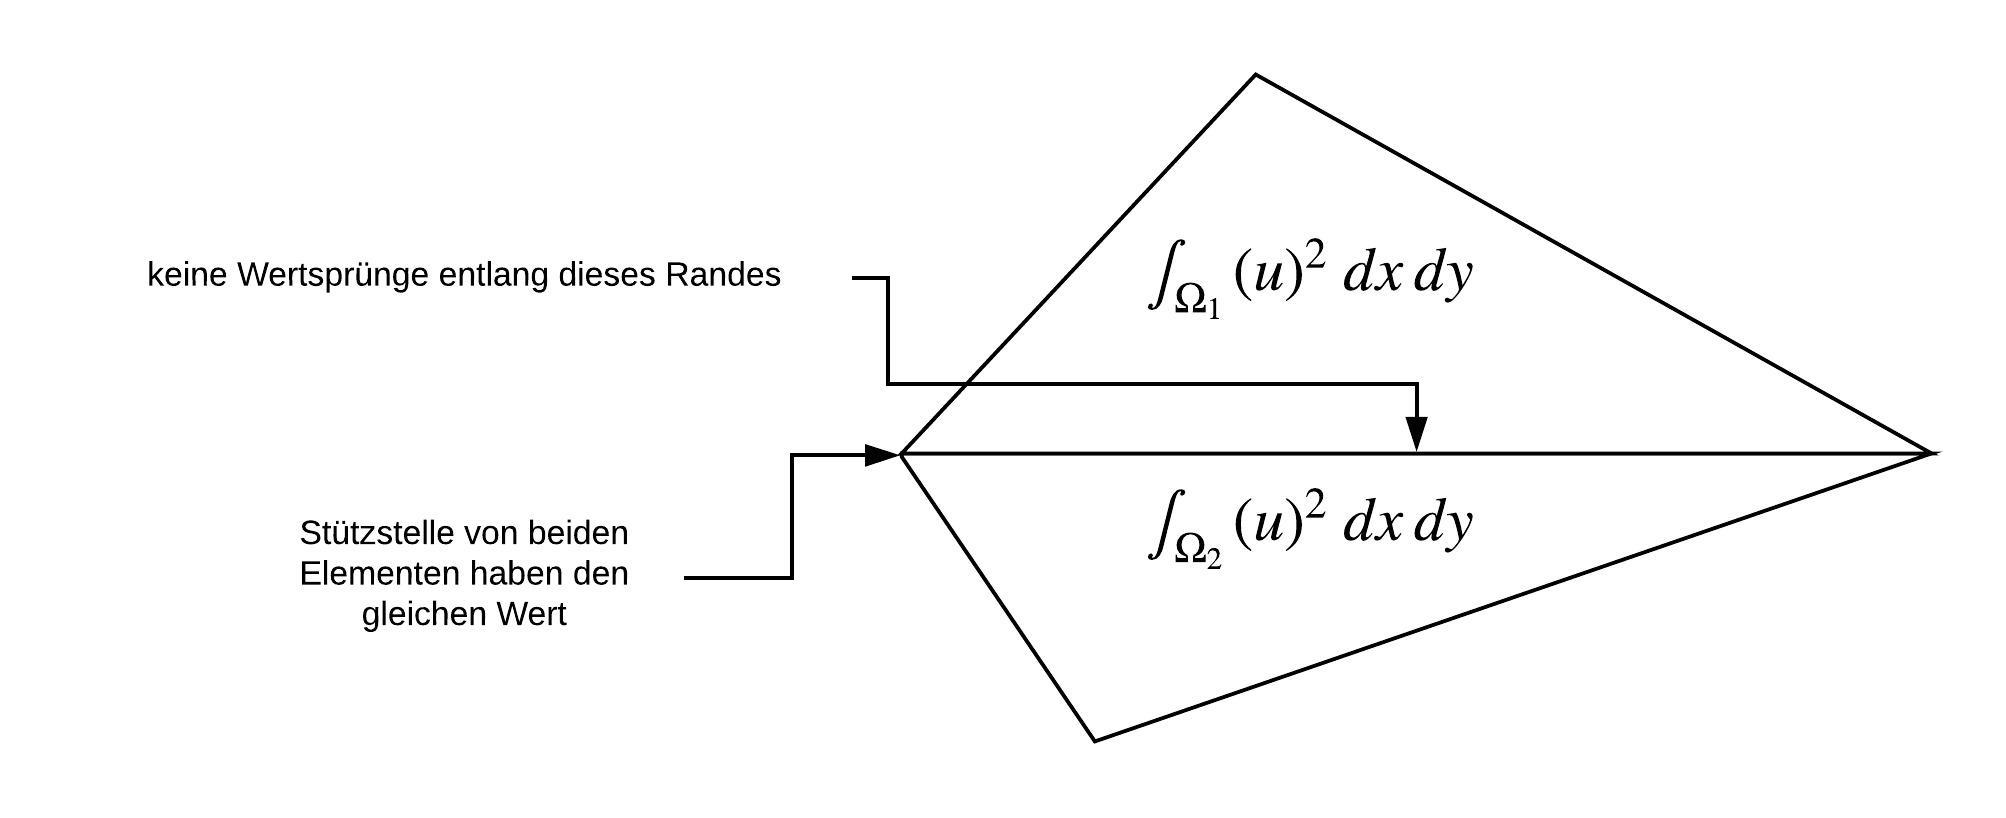
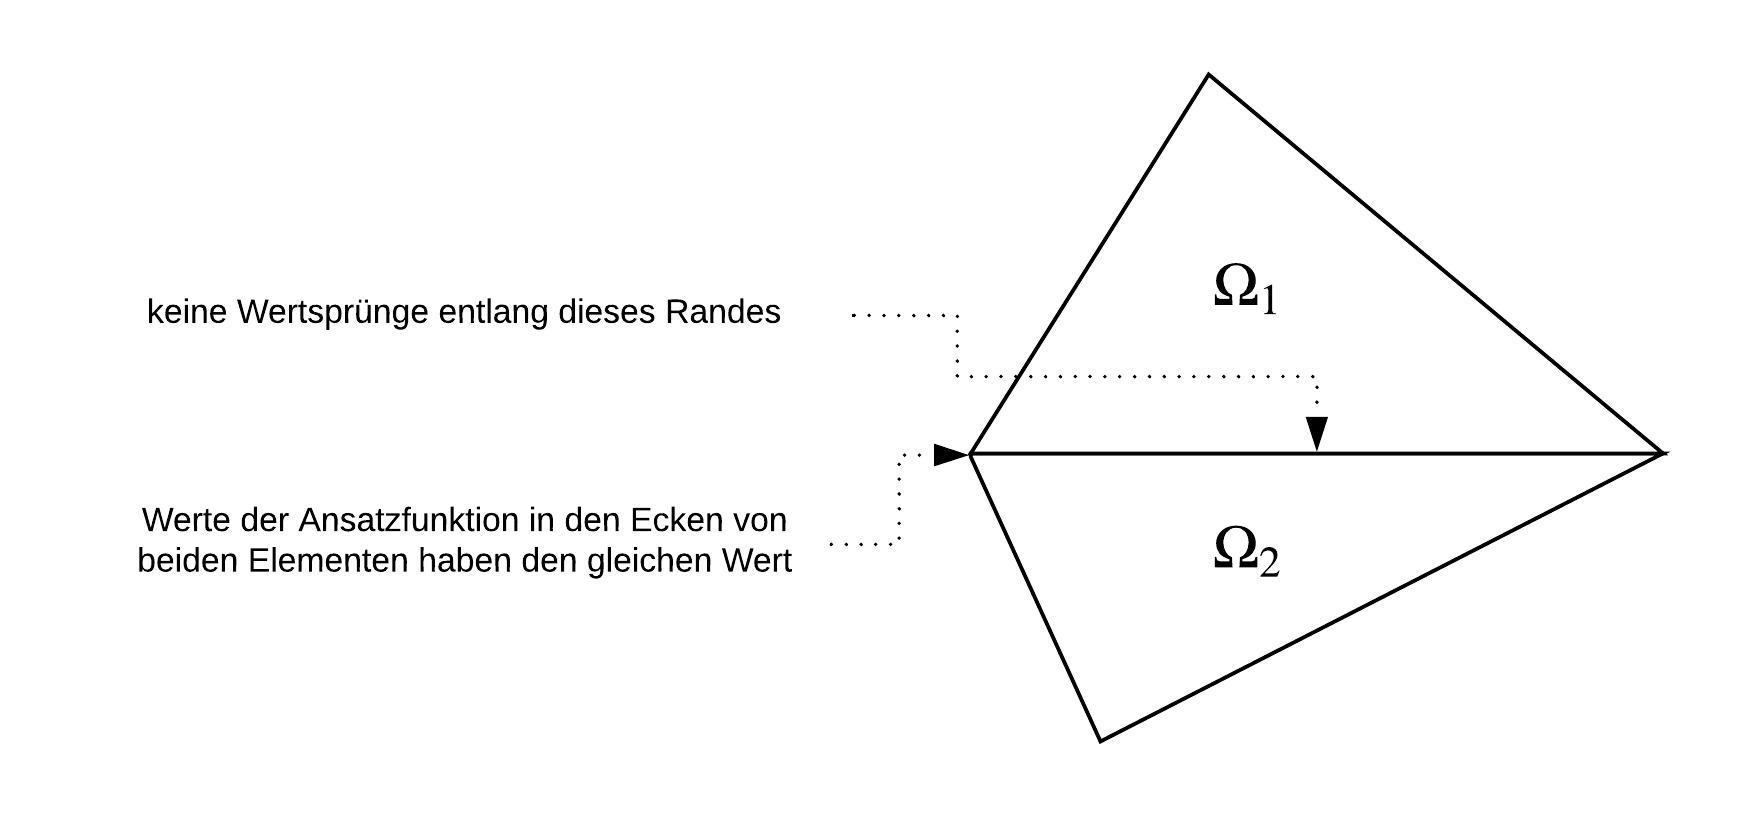
Update Text Bilder

diff --git a/buch/papers/fem/problemstellung.tex b/buch/papers/fem/problemstellung.tex
@@ -6,33 +6,60 @@
 \section{Problemstellung
 \label{fem:section:problemstellung}}
 \rhead{Problemstellung}
+Die Partielle Differentialgleichung (DGL) in der Ebene hat die Form 
+\begin{equation}
+	\Delta x = \lambda x
+	\label{fem:equationPDE}
+\end{equation} 
 
 \subsection{Was sind Ansatzfunktionen?}
-Um eine gesuchte Funktion als Lösung für die Partielle Differentialgleichung (DGL) Problem in der Ebene zu finden, wird diese mit einfacheren Funktionen approximiert. Diese einfacheren Approximations- Funktionen werden in diesem Kapitel als Ansatzfunktion $u(x)$ bezeichnet. 
+Um eine gesuchte Funktion als Lösung für die Partielle DGL Problem in der Ebene zu finden, wird diese mit einfacheren Funktionen approximiert. Diese einfacheren Approximations- Funktionen werden in diesem Kapitel als Ansatzfunktion $u(x)$ bezeichnet. Die einzelne ANsatzfunktion ist jedoch keine globale Lösung.
 
 Als einfachere Funktionen bieten sich Polynome mit niedrigem Grad an. Diese sind einfach integrier- und differenzierbar. Der Polynomgrad 1 ist einfach anzuwenden bzw. zu berechnen. Polynomgrade 3 und 4 beispielsweis bieten dafür eine bessere Approximation an. Wie im Kapitel 7 ist auch hier das Ziel Gleichungen mit wenigen Koeffizienten zu erstellen. Ist es nun möglich ebenfalls in der Ebene Ansatzfunktionen zu finden mit wenigen Koeffizienten, obwohl über ein Gebiet integriet wird? Ja. Allerdings gibt es besondere Herausforderungen zu beachten, die in den nächsten Zeilen genauer beschrieben werden.
 %Die Ansatzfunktion ist frei wählbar und gibt auch den Freiheitsgrad vor. Je höher die Ordnung der Ansatzfunktion desto besser soll die Approximation werden. So die Hoffnung. Allerdings hat dies auch Konsequenzen, die im Verlauf dieses Kapitels beschrieben werden. 
 
 
 \subsection{Herausforderung FEM in der Ebene}
-Wie auch in der Dimension 1 wird das gesamte Gebiet $\Omega$ bzw. Ebene in Teilgebiete unterteilt. Auf diese Teilgebiete werden dann die einfachen Ansatzfunktionen angewendet und dann aufsummiert nach \eqref{fem:equationSummGebiete}.
+Wie auch in der Dimension 1 wird das gesamte Gebiet $\Omega$ bzw. Ebene in Teilgebiete $\Omega_i$ unterteilt. Die Teilgebiete sind einfache geometrische Formen wie z.B. in Abbildung \ref{fig:Figuren}. Unterschiedliche geometrische Formen approximieren unterschiedlich gut die gewünschte Fläche. Als Lösung dienen äquivalente Minimalprobleme sprich anstatt Ableitungen werden Integrale verwendet gemäss Kapitel 7.
+\begin{figure}[h!]
+	\centering
+	\includegraphics[scale=0.6]{papers/fem/Images/Figuren.jpeg}
+	\caption{Approximationsmöglichkeiten eines Qudratischen Gebietes}
+	\label{fig:Figuren}
+\end{figure}
+Damit dies funktioniert müss den die Teilgebiete einfach sein. Auf diese Teilgebiete werden dann die einfachen Ansatzfunktionen angewendet und dann aufsummiert nach \eqref{fem:equationSummGebiete}.
+
 \begin{equation}
 \int_{\Omega} (u)^2 \, dx \, dy = \sum \limits_{i=1}^n \int_{\Omega_i} (u)^2 \, dx \, dy 
 \label{fem:equationSummGebiete}
 \end{equation}
-Sollte die Frage aufteuchen warum ein Integral mit quadratischen Ausdrücken verwendet wird, so wird auf das Kapitel 7.4.1 verwiesen. Eine Approximation eines gebietes kann Beispielsweise mit Dreiecken, Rechtecken oder Parallelogrammen vorgenommen werden. Aus dieser Approximation resultieren zwei wesentliche Herausforderungen die da wären:
-\begin{itemize}
-	\item 1. stetig differenzierbar in den Stützstellen (Steigung) wie z.B: im Dreieck in den Ecken.
-	\item 2. stetig differenzierbar an den Übergängen entlang den Rändern eines Elements zum anliegenden Rand eines benachbarten Elements. (Krümmung)
-\end{itemize}
+Sollte die Frage auftauchen warum ein Integral mit quadratischen Ausdrücken verwendet wird, so wird auf das Kapitel 7.4.1 verwiesen. Eine Approximation eines gebietes kann Beispielsweise mit Dreiecken, Rechtecken oder Parallelogrammen vorgenommen werden. Aus dieser Approximation resultieren zwei wesentliche Herausforderungen:
+\begin{enumerate}
+	\item stetig differenzierbar in den Stützstellen (Steigung) wie z.B: im Dreieck in den Ecken.
+	\item stetig differenzierbar an den Übergängen entlang den Rändern eines Elements zum anliegenden Rand eines benachbarten Elements. (Krümmung)
+\end{enumerate}
+Um diese beiden Herausforderungen etwas besser verständlich zu machen wurde  eine Funktion- Approximation dargestellt  $u(x,y) = 1-x^2-y^2$, welche eine Lösung der PDE $\Delta u = -4$ ist mit Randbedingungen $u=0$ auf dem Einheitskreis (violett).
+\begin{figure}[h]
+	\centering
+	\includegraphics[scale=0.8]{papers/fem/Images/ansatz.jpg}
+	\caption{Approximation mit Dreiecken auf einem quadratischen Gitter }
+	\label{fig:Ansatz}
+\end{figure}
+Wie in der Abbildung \ref{fig:Ansatz} zu erkennen ist, passt die Approximation mit Dreiecken auf einem quadratischen Gitter nicht gut, da sich die Randbedingungen nicht ausnutzen lassen. Es benötigt also eine Unterteilung der Kreisscheibe die bis an den Rand kommt. Eine bessere Approximation ist in \ref{fig:besser Approx} zu sehen, die eine bessere Triangulation zeigt.
 \begin{figure}[h!]
+	\centering
+	\includegraphics[scale=0.8]{papers/fem/Images/polar.jpg}
+	\caption{bessere Triangulation}
+	\label{fig:besser Approx}
+\end{figure}
+\begin{figure}[h]
 	\centering
 	\includegraphics[scale=0.8]{papers/fem/Images/Rand.jpeg}
 	\caption{differenzierbar entlang eines Randes}
 	\label{fig:Randbedingung}
 \end{figure}
-Aus der Abbildung \ref{fig:Randbedingung} lässt sich erkennen, dass die Ansatzfunktion für jedes Element (hier Dreieck) unterschiedlich ist. Auch müssen die Ansatzfunktion flexibel auf die grösse des Flächenelements sein.
-Ein weiterer Unteschiedlich zeigt sich im Vergleich der Differential Gleichung mit 1 Dimension und 2 Dimensionen. Die DGL wird folgender massen geändert 
+Aus der Abbildung \ref{fig:besser Approx} lässt sich erkennen, dass die Ansatzfunktion für jedes Element (Dreieck) unterschiedlich ist. Auch müssen die Ansatzfunktion flexibel auf die grösse des Flächenelements anwendbar sein.
+Unteschiedlich zeigt sich im Vergleich der Differential Gleichung mit 1 Dimension und 2 Dimensionen. Die DGL wird folgender massen geändert 
 \begin{equation}
 	u'' = \lambda u \rightarrow \Delta u = \lambda u 
 	\label{fem:DGL2D}
@@ -83,18 +110,13 @@ Daraus lässt sich erkennen, dass sich die Vorgehensweise angepasst werden muss,
 %\iint_{\!\!\!\!\!\!\!\Omega} \limits u  \,dx dy
 %\label{fem:equation3}
 %\end{equation}
-Aus den Integralen der Teilgebiete muss dann die Lösung gefunden werden um die Koeffizienten der folgenden Gleichung zu finden.
-
-\begin{equation}
-\int g(x) \space dx = f_i \int h_0 \space dx+ f_{i+1}\int h_1 \space dx + s_i\int h_0^1 dx + s_{i+1}\int h_1^1 dx
-\label{fem:equation5}
-\end{equation}
-Da es verschiedene Dreieck- Arten gibt sowie auch verschiedene Parallelogramme, wird in \ref{fem:section:loesung} auch eine Lösung aufgezeigt wie mit Hilfe einer Transformation das Dreieck Flächenelements in ein weniger aufwändigere berechenbare Flächenelement überführt werden kann.
+Aus den Integralen der Teilgebiete muss dann die Lösung gefunden werden, um die Koeffizienten in den Ecken zu bestimmen.
+Da es verschiedene Dreieck- Arten gibt sowie auch verschiedene Parallelogramme, wird in Abschnitt \ref{fem:section:loesung} auch eine Lösung aufgezeigt wie mit Hilfe einer Transformation das Dreieck Flächenelements in ein weniger aufwändigere berechenbare Flächenelement überführt werden kann.
 Nochmals kurz zusammengefasst was bis hier hin aufgezeigt wurde.
 \begin{itemize}
 	\item Ebene wird in Teilgebiete unterteilt
 	\item Teilgebiete können Dreiecke, Rechtecke oder Parallelogramme sein
-	\item Ansatzfunktion soll ein Polynom nierigen gerades sein
+	\item Ansatzfunktion soll ein Polynom nierigen Gerades sein
 	\item auf jedes Teilgebiet wird eine Ansatzfunktion angewendet
 \end{itemize} 
 Was bis jetzt noch nicht klar ist, wie die Ansafunktion sich zusammenstellt. Dies wird under anderem im folgenden Kapitel beschrieben.

diff --git a/buch/papers/fem/loesung.tex b/buch/papers/fem/loesung.tex
@@ -6,8 +6,8 @@
 \section{Lösung
 \label{fem:section:loesung}}
 \rhead{Lösung}
-Wie im vorherigen Kapitel erwähnt sind Herausforderungen bzw. Ansprüche an die Ansatzfunktionen zu beachten. Nun stellt sich die Frage, wie die Ansatzfunktion gewählt werden müssen, so das entlang eines Randes nur "Knicke" entstehen und keine Sprünge. Und wie ist gewährleistet das in der gleichen Stützstelle alle Elemente den gleichen Wert haben?  Als Lösungs für das Dreieck bietet sich der lineare Term $u(x) = c_1 + c_2x + c_3y$ an. Diese Zusammensetzung ergibt sich, da der lineare Ansatz durch die Funktionswerte in den Ecken des Dreiecks bestimmt wird. In anderen Worten ausgedrückt sind die Funktionswerte in den Ecken des Teilgebiets, hier im Dreieck, die Unbekannten, die bestimmt werden müssen.
-(siehe Bild \ref{fem:Approx}).\\
+Wie im vorherigen Kapitel erwähnt sind Herausforderungen bzw. Ansprüche an die Ansatzfunktionen zu beachten. Nun stellt sich die Frage, wie die Ansatzfunktion gewählt werden müssen, so das entlang eines Randes nur \frqq Knicke \flqq entstehen und keine Sprünge. Und wie ist gewährleistet das in der gleichen Stützstelle alle Elemente den gleichen Wert haben?  Als Lösungs bietet sich ein lineare Funktion an. Für das Dreieck  ist es der Term $u(x) = c_1 + c_2x + c_3y$ an. Diese Zusammensetzung ergibt sich, da der lineare Ansatz durch die Funktionswerte in den Ecken des Dreiecks bestimmt wird. In anderen Worten ausgedrückt sind die Funktionswerte in den Ecken des Teilgebiets, hier im Dreieck, die Unbekannten, die bestimmt werden müssen. Wie diese Koeffizienten in einer Matrix bestimmt werden ist in \ref{fem:section:GL} aufgezeigt.
+
 %\begin{figure}[h!]
 %	\centering
 %	\includegraphics[scale=0.8]{papers/fem/Images/Approx.jpeg}
@@ -17,58 +17,9 @@ Wie im vorherigen Kapitel erwähnt sind Herausforderungen bzw. Ansprüche an die
 Nochmals zur Verdeutlichung warum ein linearer Ansatzfunktion verwendet wird:
 \begin{itemize}
 	\item eine einfache Formel gibt es nur auf einem kleinen Teilgebiet
-	\item in dem Teilgebiet ist die Formel sehr einfach zu berechnen wie z.B. eine lineare Funktion die durch Koeffizienten bestimmt wird.
+	\item in dem Teilgebiet ist die Integral- Formel sehr einfach zu berechnen wie z.B. eine lineare Funktion die durch Koeffizienten bestimmt wird.
 \end{itemize}
 %ls Standardverfahren in der Ebene haben sich Flächenelement wie Dreiecken oder Parallelogramme bewährt. Die Wahl der  der Flächen- bzw. Gebiet- Elementen sollte so erfolgen, dass diese die zu approximierende Fläche möglichst gut nachbildet bzw. approxmimiert wird.
-Bekannt ist nun wie die Formeln für die einzelne Elemente aussehen. Allerdings stellt sich dann die Frage, wie die das alles in eine Matrix zusammengefasst werden soll, da sich auch quadratische Koeffizienten aus der Ansatzfunktion ergeben $\int_{\Omega u^2 \, dx \, dy}$. Inn der Abbildung \ref{fem:Stuestellen} sind von 2 Dreiecken die Eckpunkt bzw. Stützstellen aufgezeichnet. Es lässt sich erkennen das in 2 Eckpunkten die Stützstellen gleich sind.
-\begin{figure}[h]
-	\centering
-	\includegraphics[scale=0.8]{papers/fem/Images/Stuezstellen.jpeg}
-	\caption{Stuezstellen der Elemente $\int_{\Omega_1}$ und $\int_{\Omega_2}$ }
-	\label{fem:Stuestellen}
-\end{figure}
-
-Nach der Formel \eqref{fem:equationSummGebiete} werden die beiden Gebite aufsummiert zu
-\begin{equation}
-	\int u = \int_{\Omega_1} u + \int_{\Omega_2} u 
-\end{equation}
-Der Koeffizienten des Dreiecks $\Omega_1$ kann wie in \eqref{fem:DreiVektor} notiert werden.
-\begin{equation}
-	\left( \begin{array}{c} c_0^1 \\\ c_1^1 \\\ c_2^1 \\\ \end{array}\right)
-	\label{fem:DreiVektor}
-\end{equation}
-Um nun quadratische Koeffizienten in der Matrixschreibweise zu erhalten wird diese wie folgt Notiert.
-\begin{equation}
-\begin{bmatrix}
-c_0^1 &  c_1^1 &  c_2^1    \\   
-\end{bmatrix}
-\begin{bmatrix}
-\ddots & \dots &  \dots    \\
-\vdots & \ddots &   \\
-\vdots &  & \ddots
-\end{bmatrix}
-\begin{bmatrix}
-c_0^1  \\
-c_1^1 \\
-c_2^1
-\end{bmatrix}
-+
-\begin{bmatrix}
-c_0^2 &  c_1^2 &  c_2^2    \\   
-\end{bmatrix}
-\begin{bmatrix}
-\ddots & \dots &  \dots    \\
-\vdots & \ddots &   \\
-\vdots &  & \ddots
-\end{bmatrix}
-\begin{bmatrix}
-c_0^2  \\
-c_1^2 \\
-c_2^2
-\end{bmatrix}
-	\label{fem:MatrixKoeffizient}
-\end{equation}
-Die ist auch die Begründung für die später verwendete Formel \eqref{fem:Minimal2LinAlg}.
 Um möglichst einfach darzustellen, wie das Verfahren der Finiten Elemente vonstatten geht, wurde auf eine einfache Approximation mit Einheitsdreiecken und einem linearen Ansatz gewählt. 
 
 \subsection{Vorbereitung
@@ -182,7 +133,7 @@ Nun ist die Bildung des Minimalproblems abgeschlossen. In einem nächsten Schrit
 %Um möglichst einfach darzustellen, wie das Verfahren der Finiten Elemente vonstatten geht, wurde auf eine einfache Approximation mit Einheitsdreiecken und einem linearen Ansatz gewählt. 
 
 
-Die lineare Ansatzfunktion hat die folgende Form
+Die lineare Ansatzfunktion hat wie schon erwähnt die folgende Form
 
 \begin{equation}
 u(x,y) = c_1 + c_2x + c_3y
@@ -222,9 +173,61 @@ Nun kann der erste Teil der Berechnung beginnen. Die partielle Ableitung nach de
 	\label{fem:equationSchwarzquadratischP}
 \end{equation} 
 
-\subsubsection{Gleichungssystem aufstellen }
+Nun ist aber noch die Frage offen wie die Gleichungen zustande kommen für diese Koeffizienten. In folgenden Abschnitt wird dies anhand eines Beispiels beschrieben.
 
-Für jedes Flächenelement gilt die Gleichung \ref{fem:MinimalproblemElement}. Nun müssen alle diese Elemente in eine Matrix umgeschrieben werden die sich wie folgt zusammensetzen lässt.
+\subsubsection{Gleichungssystem aufstellen 
+\label{fem:section:GL}}
+
+Bekannt ist nun wie die Formeln für die einzelne Elemente aussehen. Allerdings stellt sich dann die Frage, wie die das alles in eine Matrix zusammengefasst werden soll, da sich auch quadratische Koeffizienten aus der Ansatzfunktion ergeben $\int_{\Omega u^2 \, dx \, dy}$. Inn der Abbildung \ref{fem:Stuestellen} sind von 2 Dreiecken die Eckpunkt bzw. Stützstellen aufgezeichnet. Es lässt sich erkennen das in 2 Eckpunkten die Stützstellen gleich sind.
+\begin{figure}[h]
+	\centering
+	\includegraphics[scale=0.8]{papers/fem/Images/Stuezstellen.jpeg}
+	\caption{Stuezstellen der Elemente $\int_{\Omega_1}$ und $\int_{\Omega_2}$ }
+	\label{fem:Stuestellen}
+\end{figure}
+
+Nach der Formel \eqref{fem:equationSummGebiete} werden die beiden Gebiete aufsummiert zu
+\begin{equation}
+	\int u = \int_{\Omega_1} u + \int_{\Omega_2} u 
+\end{equation}
+Der Koeffizienten des Dreiecks $\Omega_i$ kann wie in \eqref{fem:DreiVektor} notiert werden.
+\begin{equation}
+	\left( \begin{array}{c} c_0^i \\\ c_1^i \\\ c_2^i \\\ \end{array}\right)
+	\label{fem:DreiVektor}
+\end{equation}
+Um nun quadratische Koeffizienten in der Matrixschreibweise zu erhalten wird diese wie folgt Notiert.
+\begin{equation}
+\begin{bmatrix}
+c_0^1 &  c_1^1 &  c_2^i1  
+\end{bmatrix}
+\begin{bmatrix}
+\ddots & \dots &  \dots    \\
+\vdots & \ddots &   \\
+\vdots &  & \ddots
+\end{bmatrix}
+\begin{bmatrix}
+c_0^1  \\
+c_1^1 \\
+c_2^1
+\end{bmatrix}
++
+\begin{bmatrix}
+c_0^2 &  c_1^2 &  c_2^2    \\   
+\end{bmatrix}
+\begin{bmatrix}
+\ddots & \dots &  \dots    \\
+\vdots & \ddots &   \\
+\vdots &  & \ddots
+\end{bmatrix}
+\begin{bmatrix}
+c_0^2  \\
+c_1^2 \\
+c_2^2
+\end{bmatrix}
+	\label{fem:MatrixKoeffizient}
+\end{equation}
+Die ist auch die Begründung für die später verwendete Formel \eqref{fem:Minimal2LinAlg}.
+%Für jedes Flächenelement gilt die Gleichung \ref{fem:MinimalproblemElement}. Nun müssen alle diese Elemente in eine Matrix umgeschrieben werden die sich wie folgt zusammensetzen lässt.
 
 \begin{equation}
 			\underbrace{ \int_{\Omega} (\nabla u)^2 dx \, dy} \, -  \, \underbrace{\lambda \int_{\Omega} u^2 dx \,dy}
